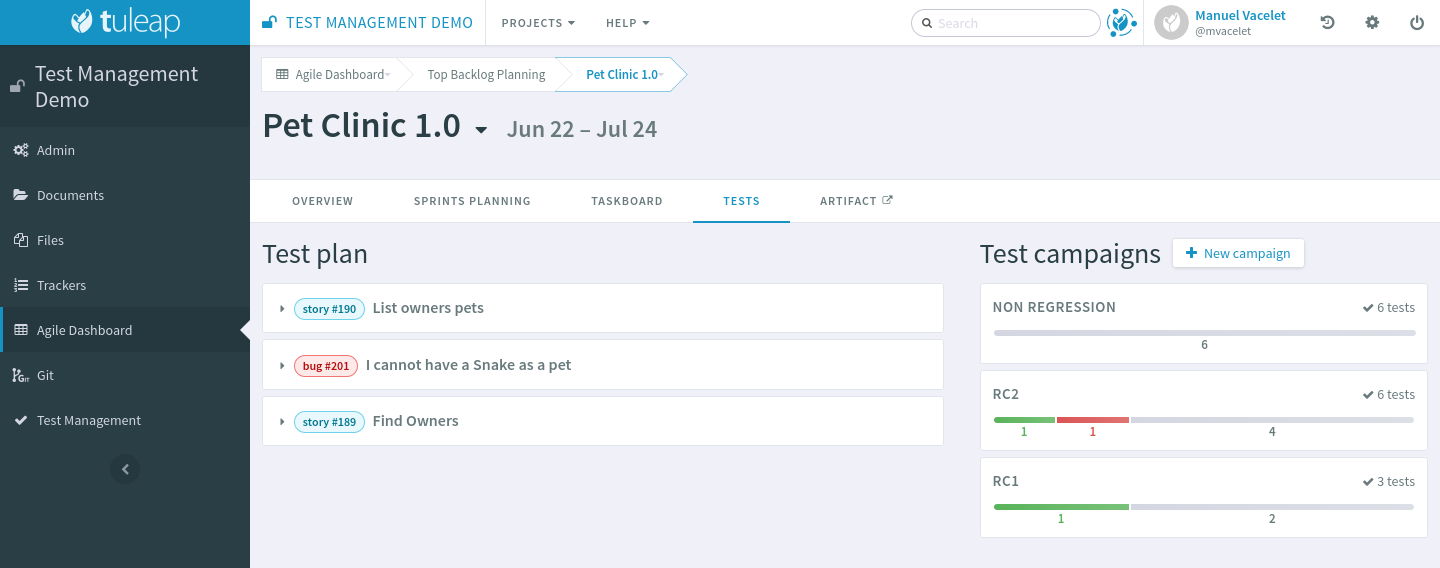
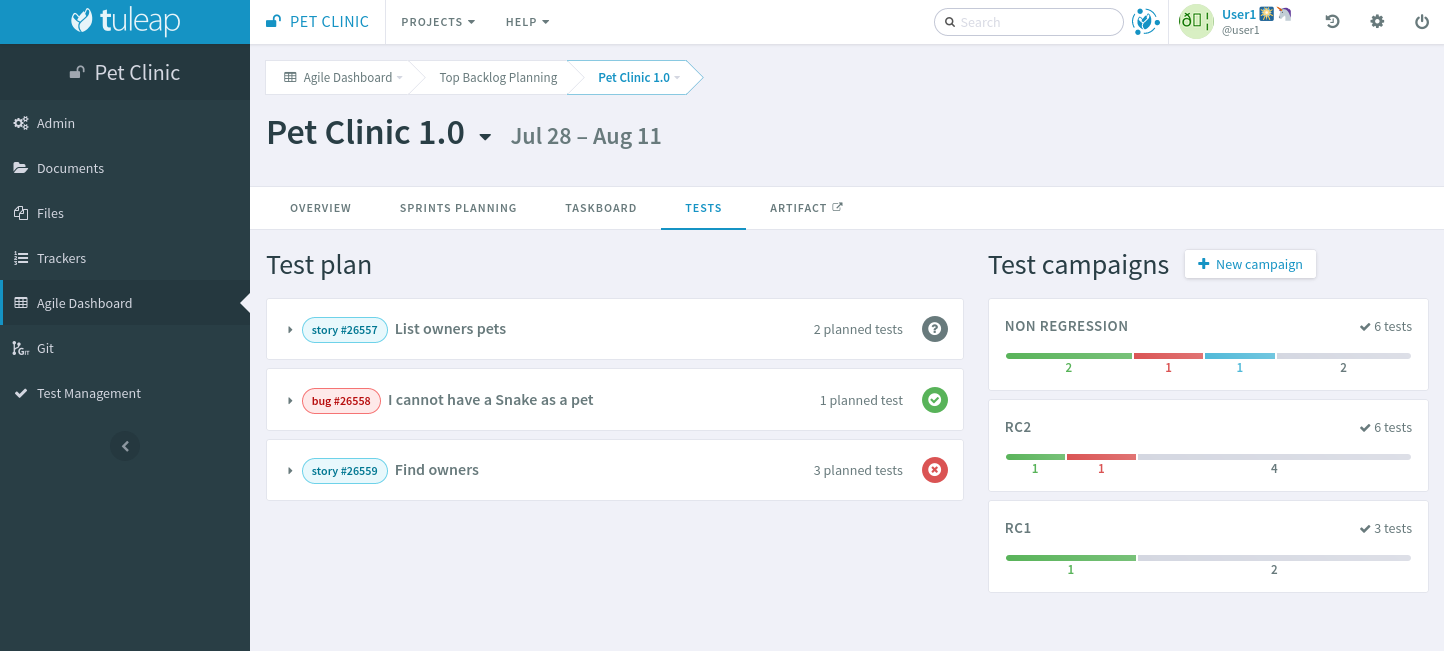
Update the test management section with the recent test plan changes
Part of story #15094: have more effective test plan

diff --git a/languages/en/user-guide/testmanagement.rst b/languages/en/user-guide/testmanagement.rst
@@ -260,10 +260,10 @@ in "RC2" campaign but it might have *passed* in RC1 campaign.
 
 The backlog item status is computed out of the tests that cover it as shown in the screenshot above. The rules are (order matters):
 
-#. If there are no tests, there is no status associated to the backlog item.
+#. If there are no planned tests, there is no status associated to the backlog item.
 #. If at least one test final status is **failed**, the backlog item status is **failed**.
 #. If no failure but at least one test final status is **blocked**, the backlog item status is **blocked**.
-#. If no failure and no blocked but at least one test final status is **not run** or test is **not planned**, the backlog item status is **not run**.
+#. If no failure and no blocked but at least one test final status is **not run**, the backlog item status is **not run**.
 #. If all tests final status are **passed**, the backlog item status is **passed**.
 
 .. note::
